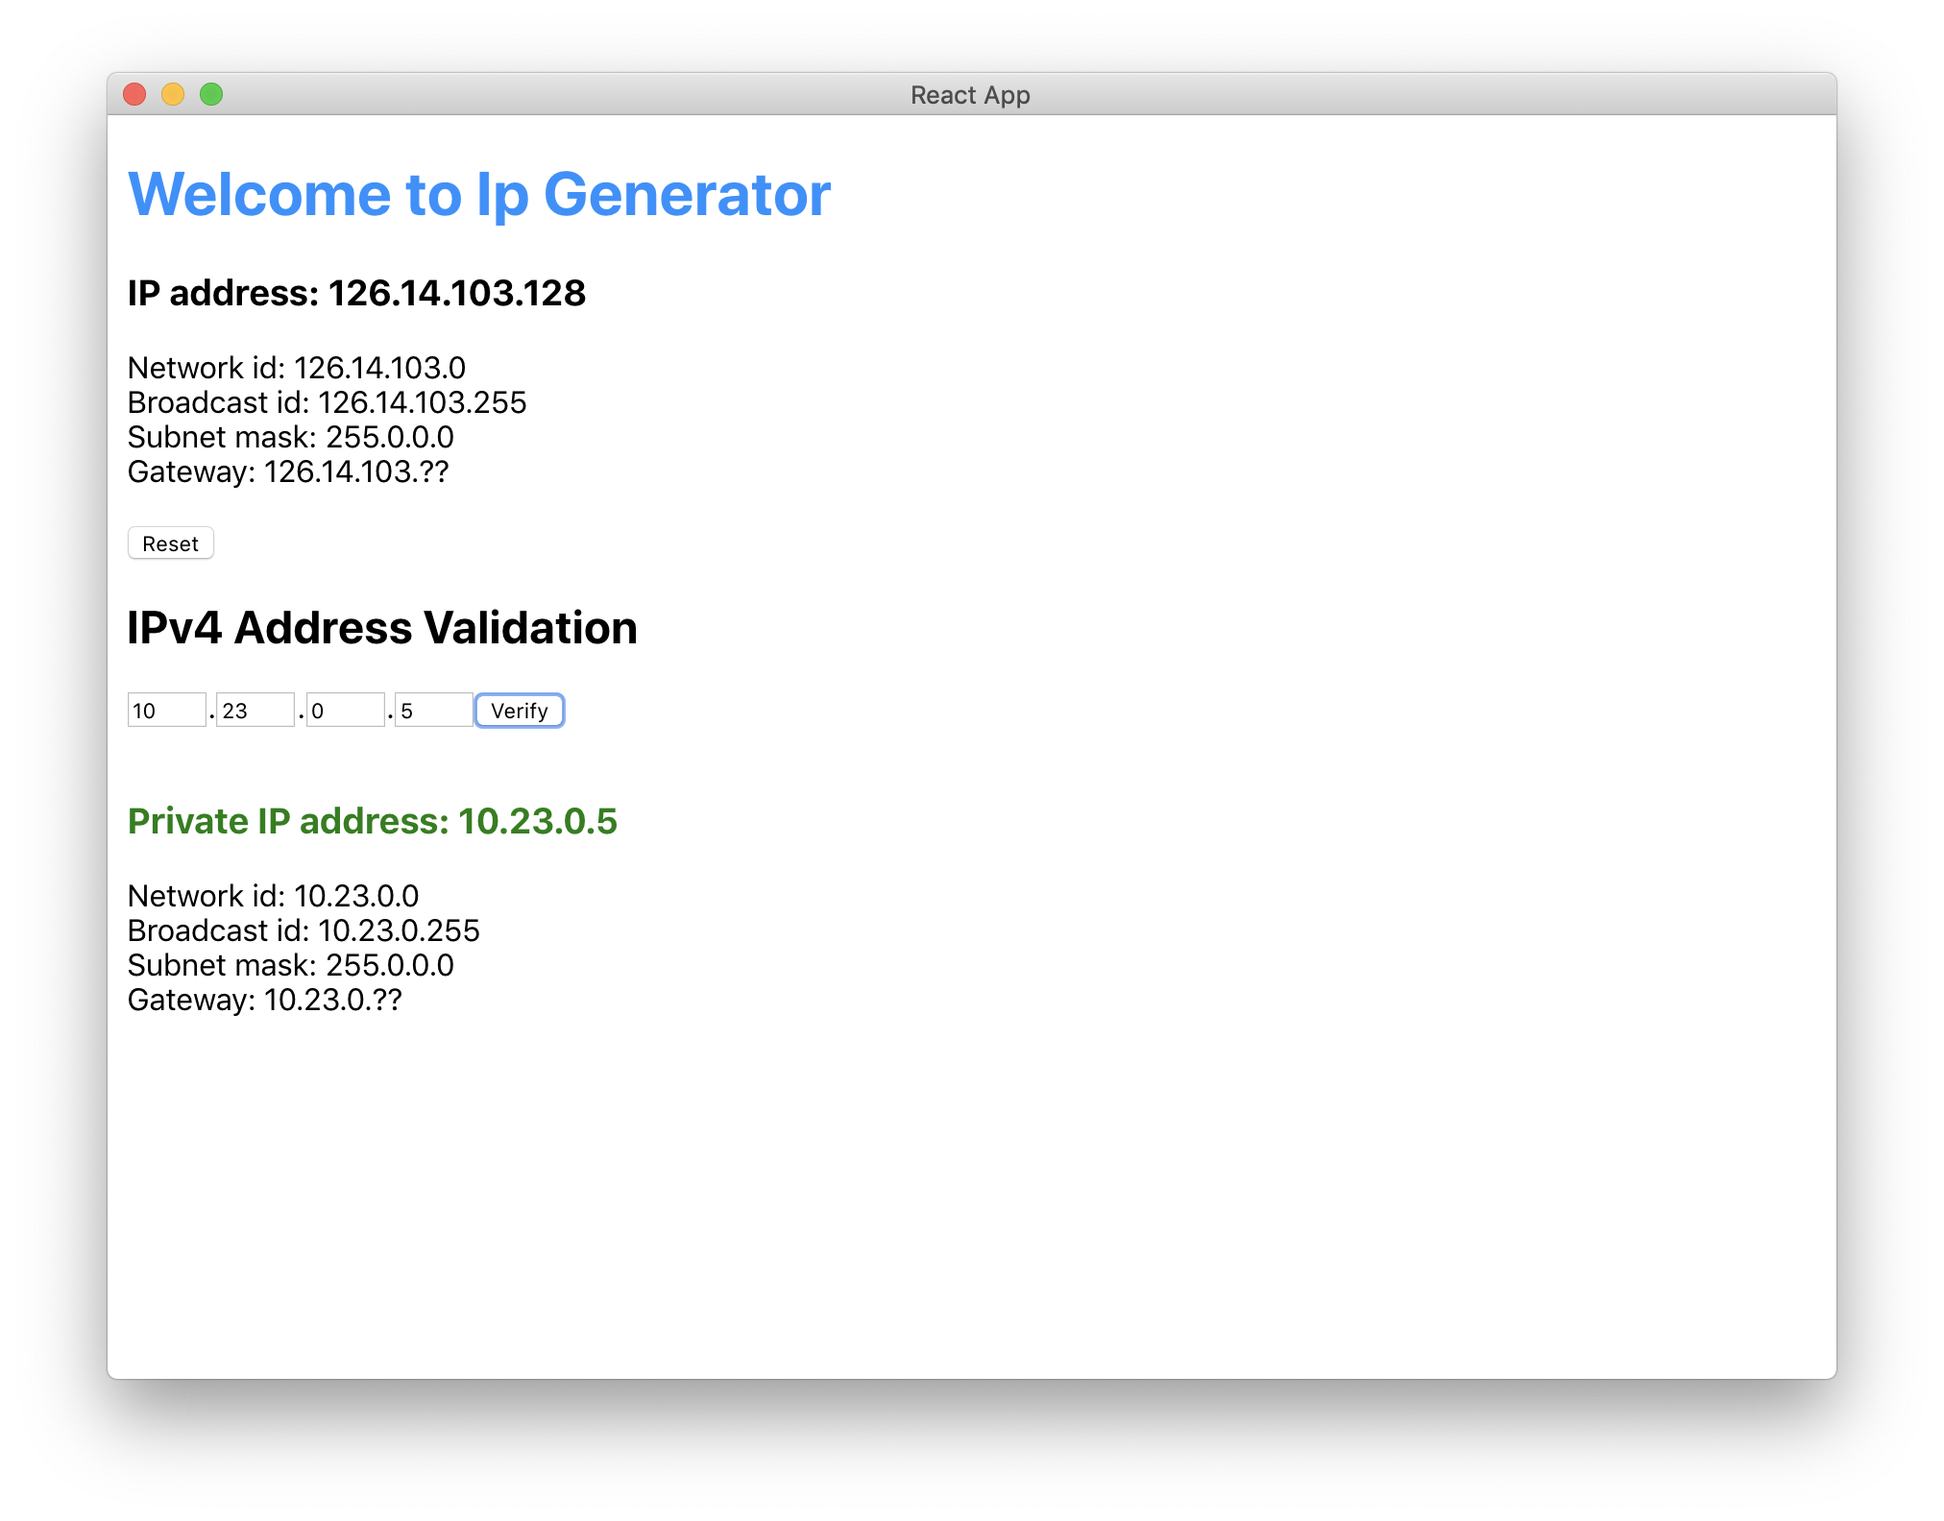
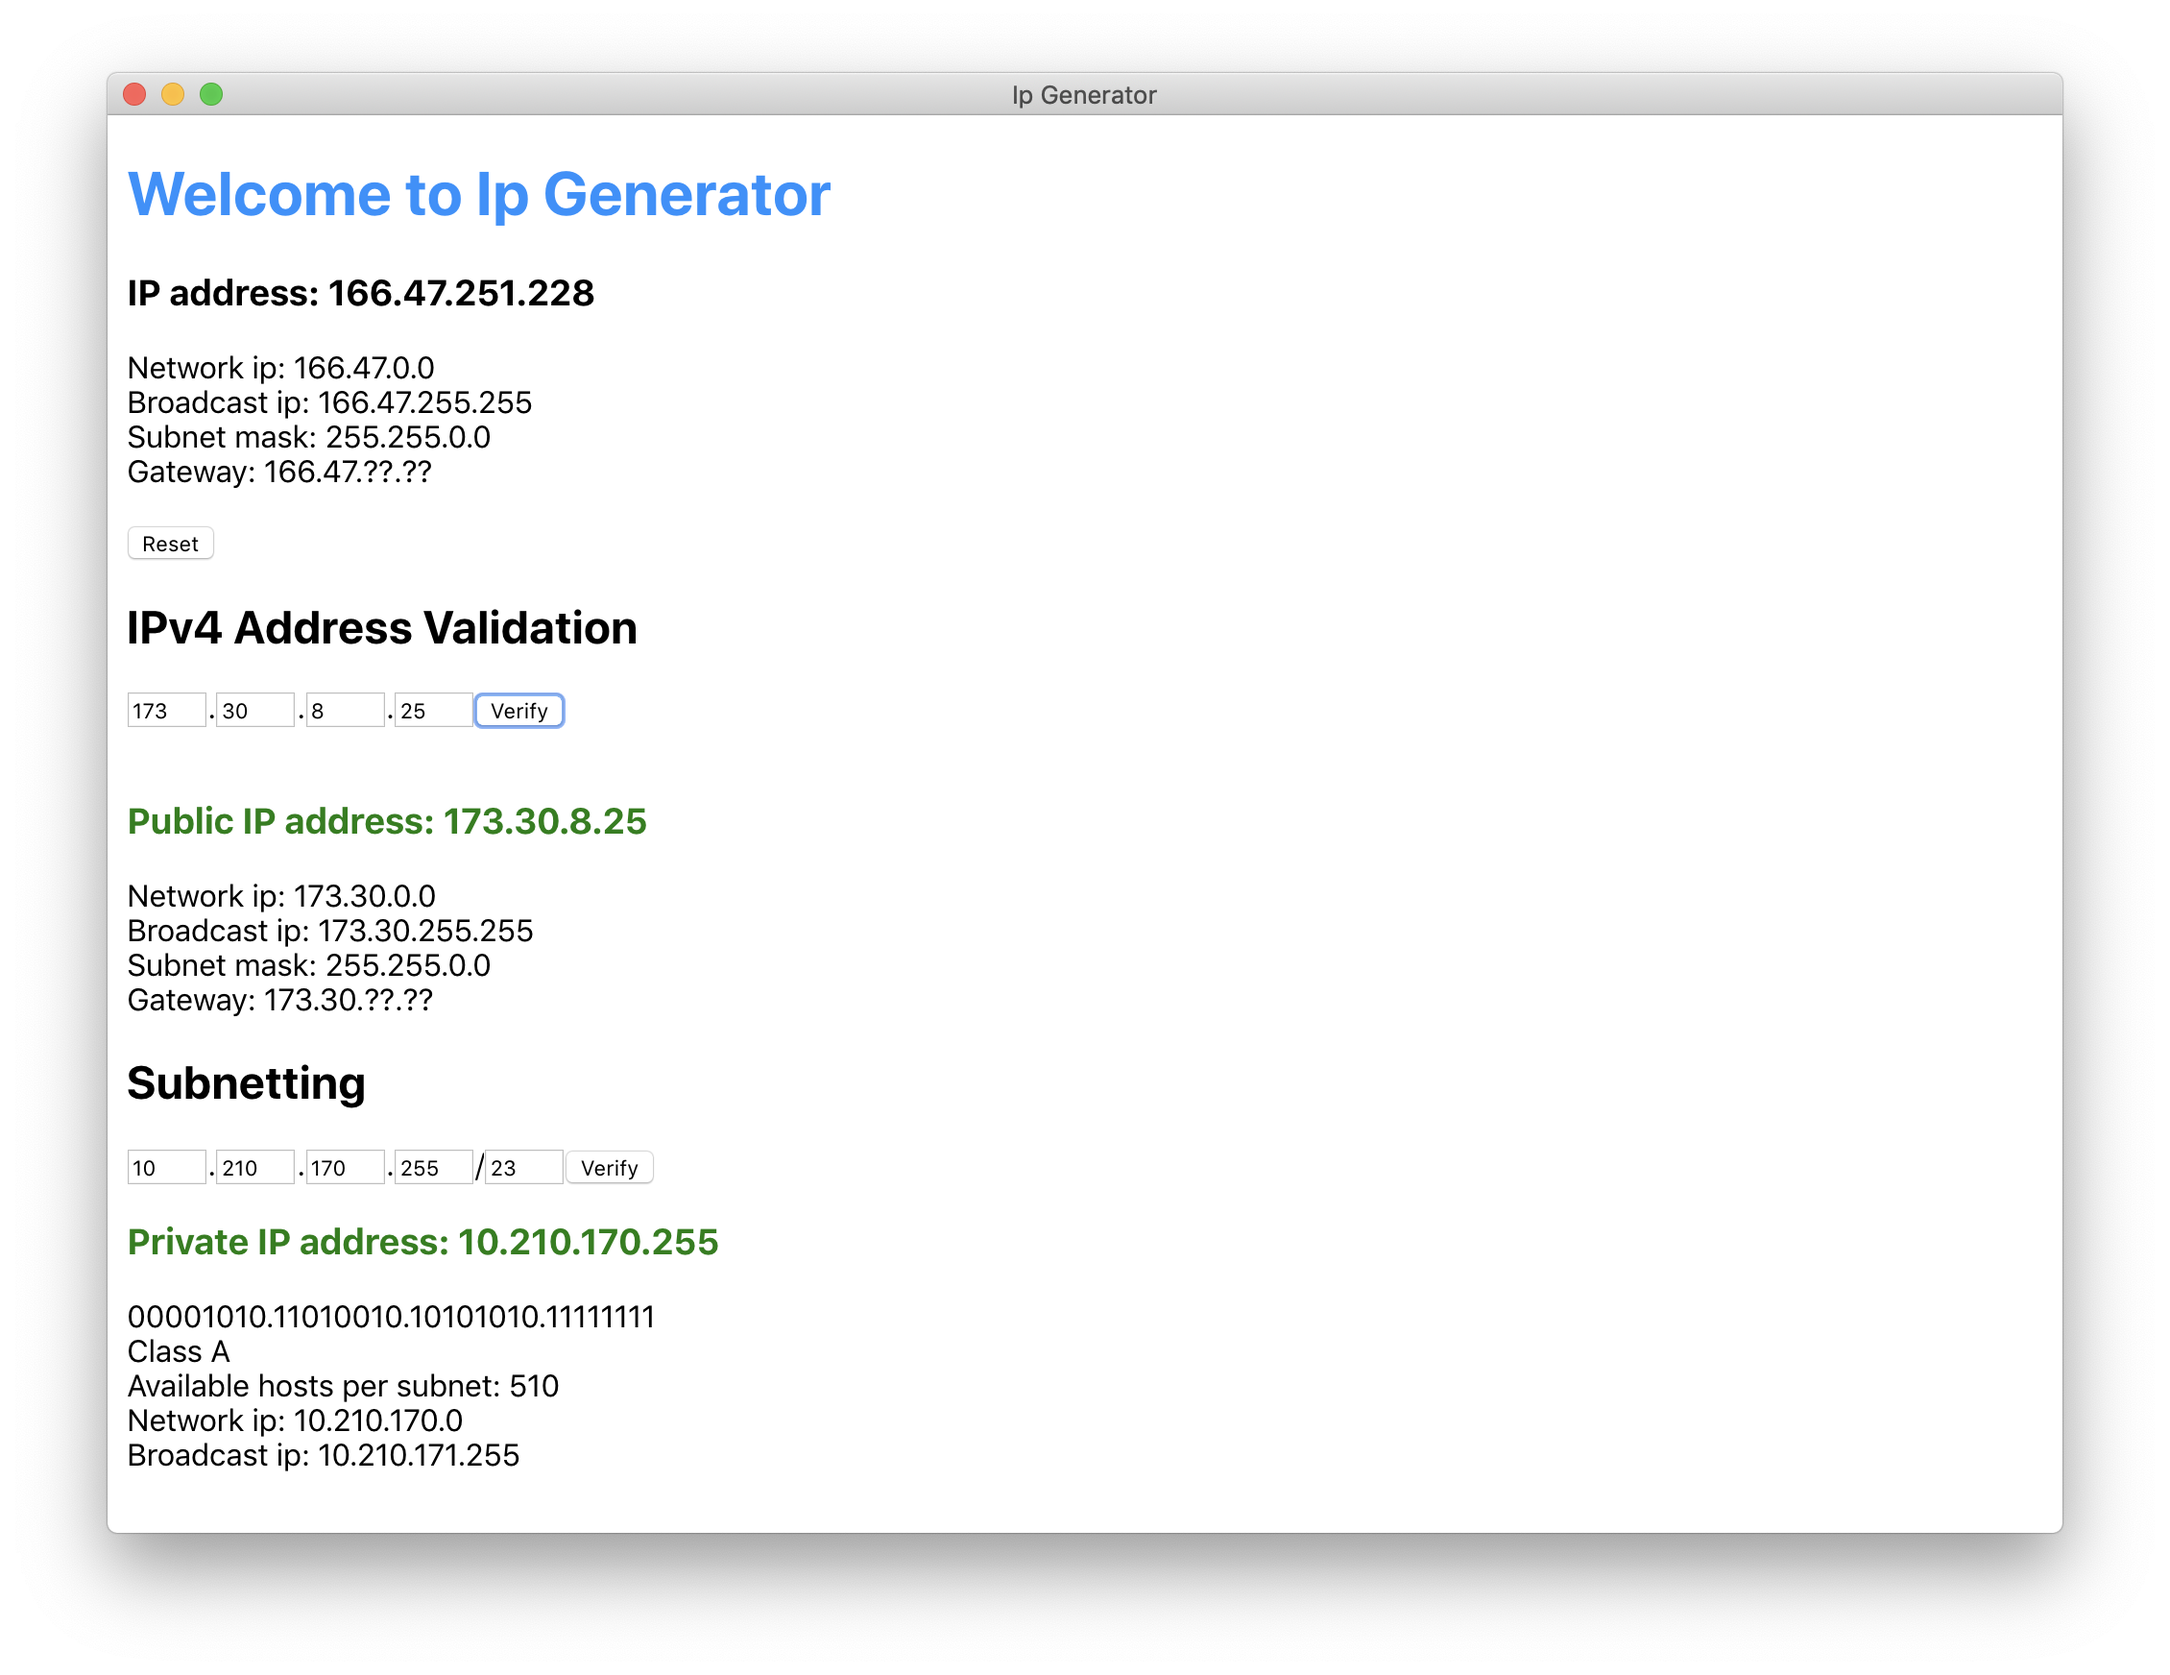
[networking] updated doc, [os] added answers to chapter2 exercises

Changed region(s): [[0.0311, 0.0309, 0.9649, 0.928]]

diff --git a/ip-generator/src/tests/ip_validation.test.js b/ip-generator/src/tests/ip_validation.test.js
@@ -1,7 +1,8 @@
 import React from 'react';
 import {
 	isIpv4Addr,
-	identify
+	identify,
+	generateIpv4
 } from '../utils';
 import {
 	IPv4View
@@ -20,7 +21,7 @@ const INVALID_IP_ADDRS = [
 ];
 
 // test(name, fn, timeout) is equivalent to it(name, fn, timeout)
-test('verify ip addresses', () => {
+it('verify ip addresses', () => {
 	// [1-255].[0-255].[0-255].[0-255]
 	var validIpArr = [];
 	for (var j=0; j<SAMPLE_COUNT;j++) {
@@ -37,10 +38,24 @@ test('verify ip addresses', () => {
 	});
 });
 
+it('Generate random ip addresses correctly', () => {
+	for (var i = 0; i < SAMPLE_COUNT; i++) {
+		const {
+			ipv4Addr,
+			classType
+		} = generateIpv4();
+		const view = renderer.create(<IPv4View ipv4Addr={ipv4Addr} classType={classType} verify />);
+		const instance = view.root;
+		const ipAddrView = instance.findByType('h3');
+		expect(ipAddrView.props.children).toContain(ipv4Addr);
+		expect(ipAddrView.props.style.color).toBe('green');
+	}
+});
+
 describe('Classify ip addresses correctly', () => {
 	const classArr = ['A', 'B', 'C'];
 
-	test('Check private ip addresses', () => {
+	it('Check private ip addresses', () => {
 		const {
 			classA,
 			classB,
@@ -60,7 +75,7 @@ describe('Classify ip addresses correctly', () => {
 		}
 	});
 
-	test('Check public ip addresses', () => {
+	it('Check public ip addresses', () => {
 		const {
 			classA,
 			classB,
@@ -80,7 +95,7 @@ describe('Classify ip addresses correctly', () => {
 		}
 	});
     
-	test('Check Loopback ip addresses', () => {
+	it('Check Loopback ip addresses', () => {
 		const ipAddrs = generateLoopbackIpAddrs(SAMPLE_COUNT);
 		for (var i = 0; i < ipAddrs.length; i++) {
 			const view = renderer.create(<IPv4View ipv4Addr={ipAddrs[i]} classType={'loopback'} verify />);
@@ -92,7 +107,7 @@ describe('Classify ip addresses correctly', () => {
 		}
 	});
     
-	test('Check ip addresses for multicast purposes', () => {
+	it('Check ip addresses for multicast purposes', () => {
 		const ipAddrs = generateClassDIpAddrs(SAMPLE_COUNT);
 		for (var i = 0; i < ipAddrs.length; i++) {
 			const view = renderer.create(<IPv4View ipv4Addr={ipAddrs[i]} classType={'D'} verify />);
@@ -104,7 +119,7 @@ describe('Classify ip addresses correctly', () => {
 		}
 	});
 
-	test('Check ip addresses for experimental purposes', () => {
+	it('Check ip addresses for experimental purposes', () => {
 		const ipAddrs = generateClassEIpAddrs(SAMPLE_COUNT);
 		for (var i = 0; i < ipAddrs.length; i++) {
 			const view = renderer.create(<IPv4View ipv4Addr={ipAddrs[i]} classType={'E'} verify />);
@@ -116,7 +131,7 @@ describe('Classify ip addresses correctly', () => {
 		}
 	});
     
-	test('Identify ip classes', () => {
+	it('Match classes', () => {
 		const privateAddr = generatePrivateIpAddrs(SAMPLE_COUNT);
 		const publicAddr = generatePublicIpAddrs(SAMPLE_COUNT);
 		const classA = privateAddr.classA.concat(publicAddr.classA);

diff --git a/OS/C_Primer_Plus_5th_Edition_code/chapter2_1.c b/OS/C_Primer_Plus_5th_Edition_code/chapter2_1.c
@@ -1,0 +1,22 @@
+/*
+Write a program that uses one printf() call to print your first name and last
+name on one line, uses a second printf() call to print your first and last names
+on two separate lines, and uses a pair of printf() calls to print your first and last
+names on one line. The output should look like this (but using your name):
+Anton Bruckner First print statement
+Anton Second print statement
+Bruckner Still the second print statement
+Anton Bruckner Third and fourth print statements
+ */
+
+# include<stdio.h>
+int main() {
+    char FIRST_NAME[] = "Catherine";
+    char LAST_NAME[] = "Chen";
+
+    printf("%s %s\n", FIRST_NAME, LAST_NAME);
+    printf("%s\n%s\n", FIRST_NAME, LAST_NAME);
+    printf("%s ", FIRST_NAME);
+    printf("%s\n", LAST_NAME);
+    return 0;
+}

diff --git a/OS/C_Primer_Plus_5th_Edition_code/chapter2_7.c b/OS/C_Primer_Plus_5th_Edition_code/chapter2_7.c
@@ -1,0 +1,36 @@
+/*
+Write a program that calls a function named one_three(). This function should
+display the word one on one line, call the function two(), and then display the
+word three on one line. The function two() should display the word two on one
+line. The main() function should display the phrase starting now: before calling
+one_three() and display done! after calling it. Thus, the output should look like
+the following:
+starting now:
+one
+two
+three
+done!
+ */
+
+# include<stdio.h>
+
+void one_three();
+void two();
+int main() {
+    printf("starting now:\n");
+    one_three();
+    printf("done!\n");
+    return 0;
+}
+
+void one_three()
+{
+    printf("one\n");
+    two();
+    printf("three\n");
+}
+
+void two()
+{
+    printf("two\n");
+}

diff --git a/OS/C_Primer_Plus_5th_Edition_code/chapter2_4.c b/OS/C_Primer_Plus_5th_Edition_code/chapter2_4.c
@@ -1,0 +1,25 @@
+/*
+Write a program that produces the following output:
+For he's a jolly good fellow!
+For he's a jolly good fellow!
+For he's a jolly good fellow!
+Which nobody can deny!
+Have the program use two user-defined functions in addition to main(): one that
+prints the "jolly good" message once, and one that prints the final line once.
+ */
+
+# include<stdio.h>
+void printJollyGood() {
+    printf("For he's a jolly good fellow!\n");
+}
+
+void printNobody() {
+    printf("Which nobody can deny!\n");
+}
+int main() {
+    printJollyGood();
+    printJollyGood();
+    printJollyGood();
+    printNobody();
+    return 0;
+}

diff --git a/OS/C_Primer_Plus_5th_Edition_code/chapter2_5.c b/OS/C_Primer_Plus_5th_Edition_code/chapter2_5.c
@@ -1,0 +1,23 @@
+/*
+Write a program that creates an integer variable called toes. Have the program
+set toes to 10. Also have the program calculate what twice toes is and what toes
+squared is. The program should print all three values, identifying them.
+ */
+
+# include<stdio.h>
+
+int twice(int);
+int square(int);
+int main() {
+    int toes = 10;
+    printf("toes = %d\ntwice toes = %d\nsquared toes = %d\n", toes, twice(toes), square(toes));
+    return 0;
+}
+
+int twice(int n) {
+    return 2 * n;
+}
+
+int square(int n) {
+    return n * n;
+}

diff --git a/OS/C_Primer_Plus_5th_Edition_code/chapter2_6.c b/OS/C_Primer_Plus_5th_Edition_code/chapter2_6.c
@@ -1,0 +1,30 @@
+/*
+Write a program that produces the following output:
+Smile!Smile!Smile!
+Smile!Smile!
+Smile!
+ */
+
+# include<stdio.h>
+
+void printSmile();
+int main() {
+    int columns = 3;
+    int rows = 3;
+    while (columns > 0)
+    {
+        while (rows > 0)
+        {
+            printSmile();
+            rows--;
+        }
+        printf("\n");
+        columns--;
+        rows = columns;
+    }
+    return 0;
+}
+
+void printSmile() {
+    printf("Smile!");
+}

diff --git a/OS/C_Primer_Plus_5th_Edition_code/chapter2_3.c b/OS/C_Primer_Plus_5th_Edition_code/chapter2_3.c
@@ -1,0 +1,12 @@
+/*
+Write a program that converts your age in years to days and displays both values.
+At this point, don't worry about fractional years and leap years.
+ */
+
+# include<stdio.h>
+int main() {
+    int myAge = 10;
+    printf("My age in years is %d\n", myAge);
+    printf("My age in days is %d\n", myAge * 365);
+    return 0;
+}

diff --git a/Networking.md b/Networking.md
@@ -267,6 +267,37 @@ ip address: ```172.16.x.x/18```
 | 3 | 172.16.128.0/18 | 172.16.191.255/18 |
 | 4 | 172.16.192.0/18 | 172.16.255.255/18 |
 
+### Class A
+E.g. 
+ip address: ```10.x.x.x/9```        
+subnet mask: ```255.0.0.0```     
+
+1. Convert to binary        
+-> 11111111.xxxxxxxx.xxxxxxxx.xxxxxxxx       
+
+2. 9 ```1```       
+-> ```11111111.1```xxxxxxx.xxxxxxxx.xxxxxxxx        
+
+3. 5 bits left, i.e. we have 2^15 - 2 = 32766 hosts (one for network id, the other for broadcast ip)     
+
+4. 2 subnets       
+- network id 1: ```172.0.0.0/9```     
+- broadcast ip 1: ```10.127.255.255/9```     
+- network id 2: ```10.128.0.0/9```     
+- broadcast ip 2: ```10.255.255.255/9```     
+
+E.g.
+ip address: ```10.x.x.x/10```        
+
+- 2^22 - 2 = 4,194,302 hosts        
+- 4 subnets     
+
+| subnet | network id | broadcast |
+| -- | -- | -- |
+| 1 | 10.0.0.0/10 | 10.63.255.255/10 |
+| 2 | 10.64.0.0/10 | 10.127.255.255/10 |
+| 3 | 10.128.0.0/10 | 10.191.255.255/10 |
+| 4 | 10.192.0.0/10 | 10.255.255.255 /10 |
 
 
 ## References

diff --git a/ip-generator/README.md b/ip-generator/README.md
@@ -1,7 +1,7 @@
 # IPv4 Generator
 Cross-platform application based on Electron + React framework
 
-![screenshot](https://raw.githubusercontent.com/Catherine22/Notes/master/ip-generator/ip_generator.png)
+![img](./ip_generator.png)
 
 ## Build
 
@@ -26,7 +26,8 @@ npm run electron-pack
 
 ## Features
 1. Generator a random IPv4 address      
-2. Verify any given IPv4 address
+2. Verify any given IPv4 address        
+3. Subnet
 
 ## References
 [How to build an Electron app using Create React App and Electron Builder](https://www.codementor.io/randyfindley/how-to-build-an-electron-app-using-create-react-app-and-electron-builder-ss1k0sfer)
